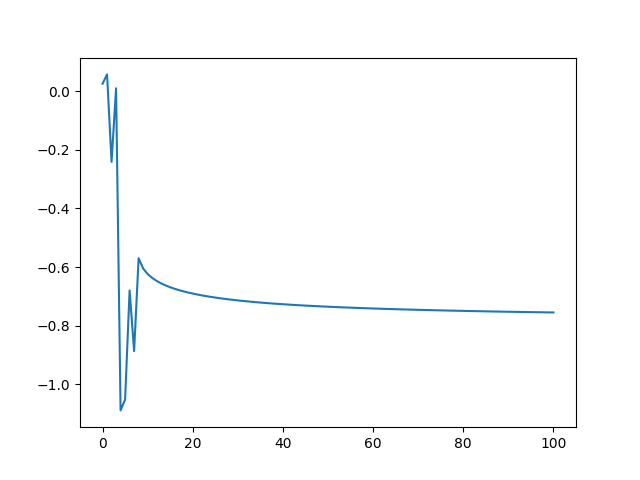
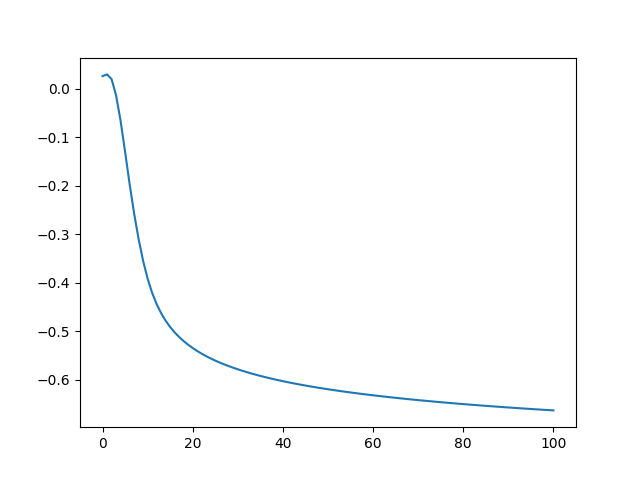
Adding Configurable Activations. This helped me fix a bug, and we now match training results exactly of our hardcoded 2 layer network. Exciting

diff --git a/NeuralNetworks/GenericNetwork/parameters_factory.py b/NeuralNetworks/GenericNetwork/parameters_factory.py
@@ -1,5 +1,16 @@
 import numpy as np
 from parameters import Parameters
+from activation_functions import ActivationFunctions
+
+ACTIVATION_MAP = {
+        "tanh": ActivationFunctions.tanh,
+        "sigmoid": ActivationFunctions.sigmoid
+}
+
+ACTIVATION_PRIME_MAP = {
+        "tanh": ActivationFunctions.tanh_prime,
+        "sigmoid": ActivationFunctions.sigmoid_prime
+}
 
 class ParametersFactory:
     def build(layers):
@@ -11,7 +22,14 @@ class ParametersFactory:
             parameters[layer_string] = {}
             parameters[layer_string]["W"] = np.random.rand(layers[layer_index].neurons, layers[layer_index-1].neurons)
             parameters[layer_string]["b"] = np.zeros((layers[layer_index].neurons, 1))
+            parameters[layer_string]["activation"] = ParametersFactory.__get_activation(layers[layer_index].activation)
+            parameters[layer_string]["activation_prime"] = ParametersFactory.__get_activation_prime(layers[layer_index].activation)
 
         return Parameters(parameters)
             
+    def __get_activation(str):
+        return ACTIVATION_MAP[str]
+
+    def __get_activation_prime(str):
+        return ACTIVATION_PRIME_MAP[str]
 

diff --git a/NeuralNetworks/GenericNetwork/configuration_parser.py b/NeuralNetworks/GenericNetwork/configuration_parser.py
@@ -3,12 +3,9 @@ import numpy as np
 
 
 class Layer:
-    def __init__(self, neurons):
+    def __init__(self, neurons, activation):
        self.neurons = neurons
-
-    def neurons():
-        self.neurons
-
+       self.activation = activation
 
 class ConfigurationParser:
     def parse(json):
@@ -17,7 +14,7 @@ class ConfigurationParser:
         return Configuration(
                 training_input,
                 np.array(json["output"]),
-                [Layer(training_input.shape[0])] + list(map(lambda layer: Layer(layer["neurons"]), json["layers"])),
+                [Layer(training_input.shape[0], "tanh")] + list(map(lambda layer: Layer(layer["neurons"], layer["activation"]), json["layers"])),
                 int(json["iterations"]),
                 float(json["learning_rate"]),
                 predict_input,

diff --git a/NeuralNetworks/GenericNetwork/backward_propagator.py b/NeuralNetworks/GenericNetwork/backward_propagator.py
@@ -20,7 +20,7 @@ class BackwardPropagator:
             layer_idx_prev = layer_idx_curr - 1
 
             # extraction of the activation function for the current layer
-            activ_function_prime_curr = self.__sigmoid_prime if (layer_idx_curr == parameters.layer_count()+1) else self.__tanh_prime
+            activ_function_prime_curr = parameters.get_activation_prime(layer_idx_curr) # self.__sigmoid_prime if (layer_idx_curr == parameters.layer_count()+1) else self.__tanh_prime
 
             dA_curr = dA_prev
 

diff --git a/NeuralNetworks/GenericNetwork/parameters.py b/NeuralNetworks/GenericNetwork/parameters.py
@@ -6,6 +6,12 @@ class Parameters:
         self.__init_parameter_history()
 
 
+    def get_activation(self, layer_index):
+        return self.parameters["layer%s" % layer_index]["activation"]
+
+    def get_activation_prime(self, layer_index):
+        return self.parameters["layer%s" % layer_index]["activation_prime"]
+
     def get_weights(self, layer_index):
         return self.parameters["layer%s" % layer_index]["W"]
 

diff --git a/NeuralNetworks/GenericNetwork/activation_functions.py b/NeuralNetworks/GenericNetwork/activation_functions.py
@@ -1,0 +1,15 @@
+import numpy as np
+
+class ActivationFunctions:
+    def sigmoid(Z):
+        return 1/(1+np.exp(-Z))
+
+    def sigmoid_prime(dA, Z):
+        sig = ActivationFunctions.sigmoid(Z)
+        return dA * sig * (1 - sig)
+
+    def tanh(Z):
+        return np.tanh(Z)
+
+    def tanh_prime(dA, Z):
+        return dA * (1.0 - np.tanh(Z)**2)
